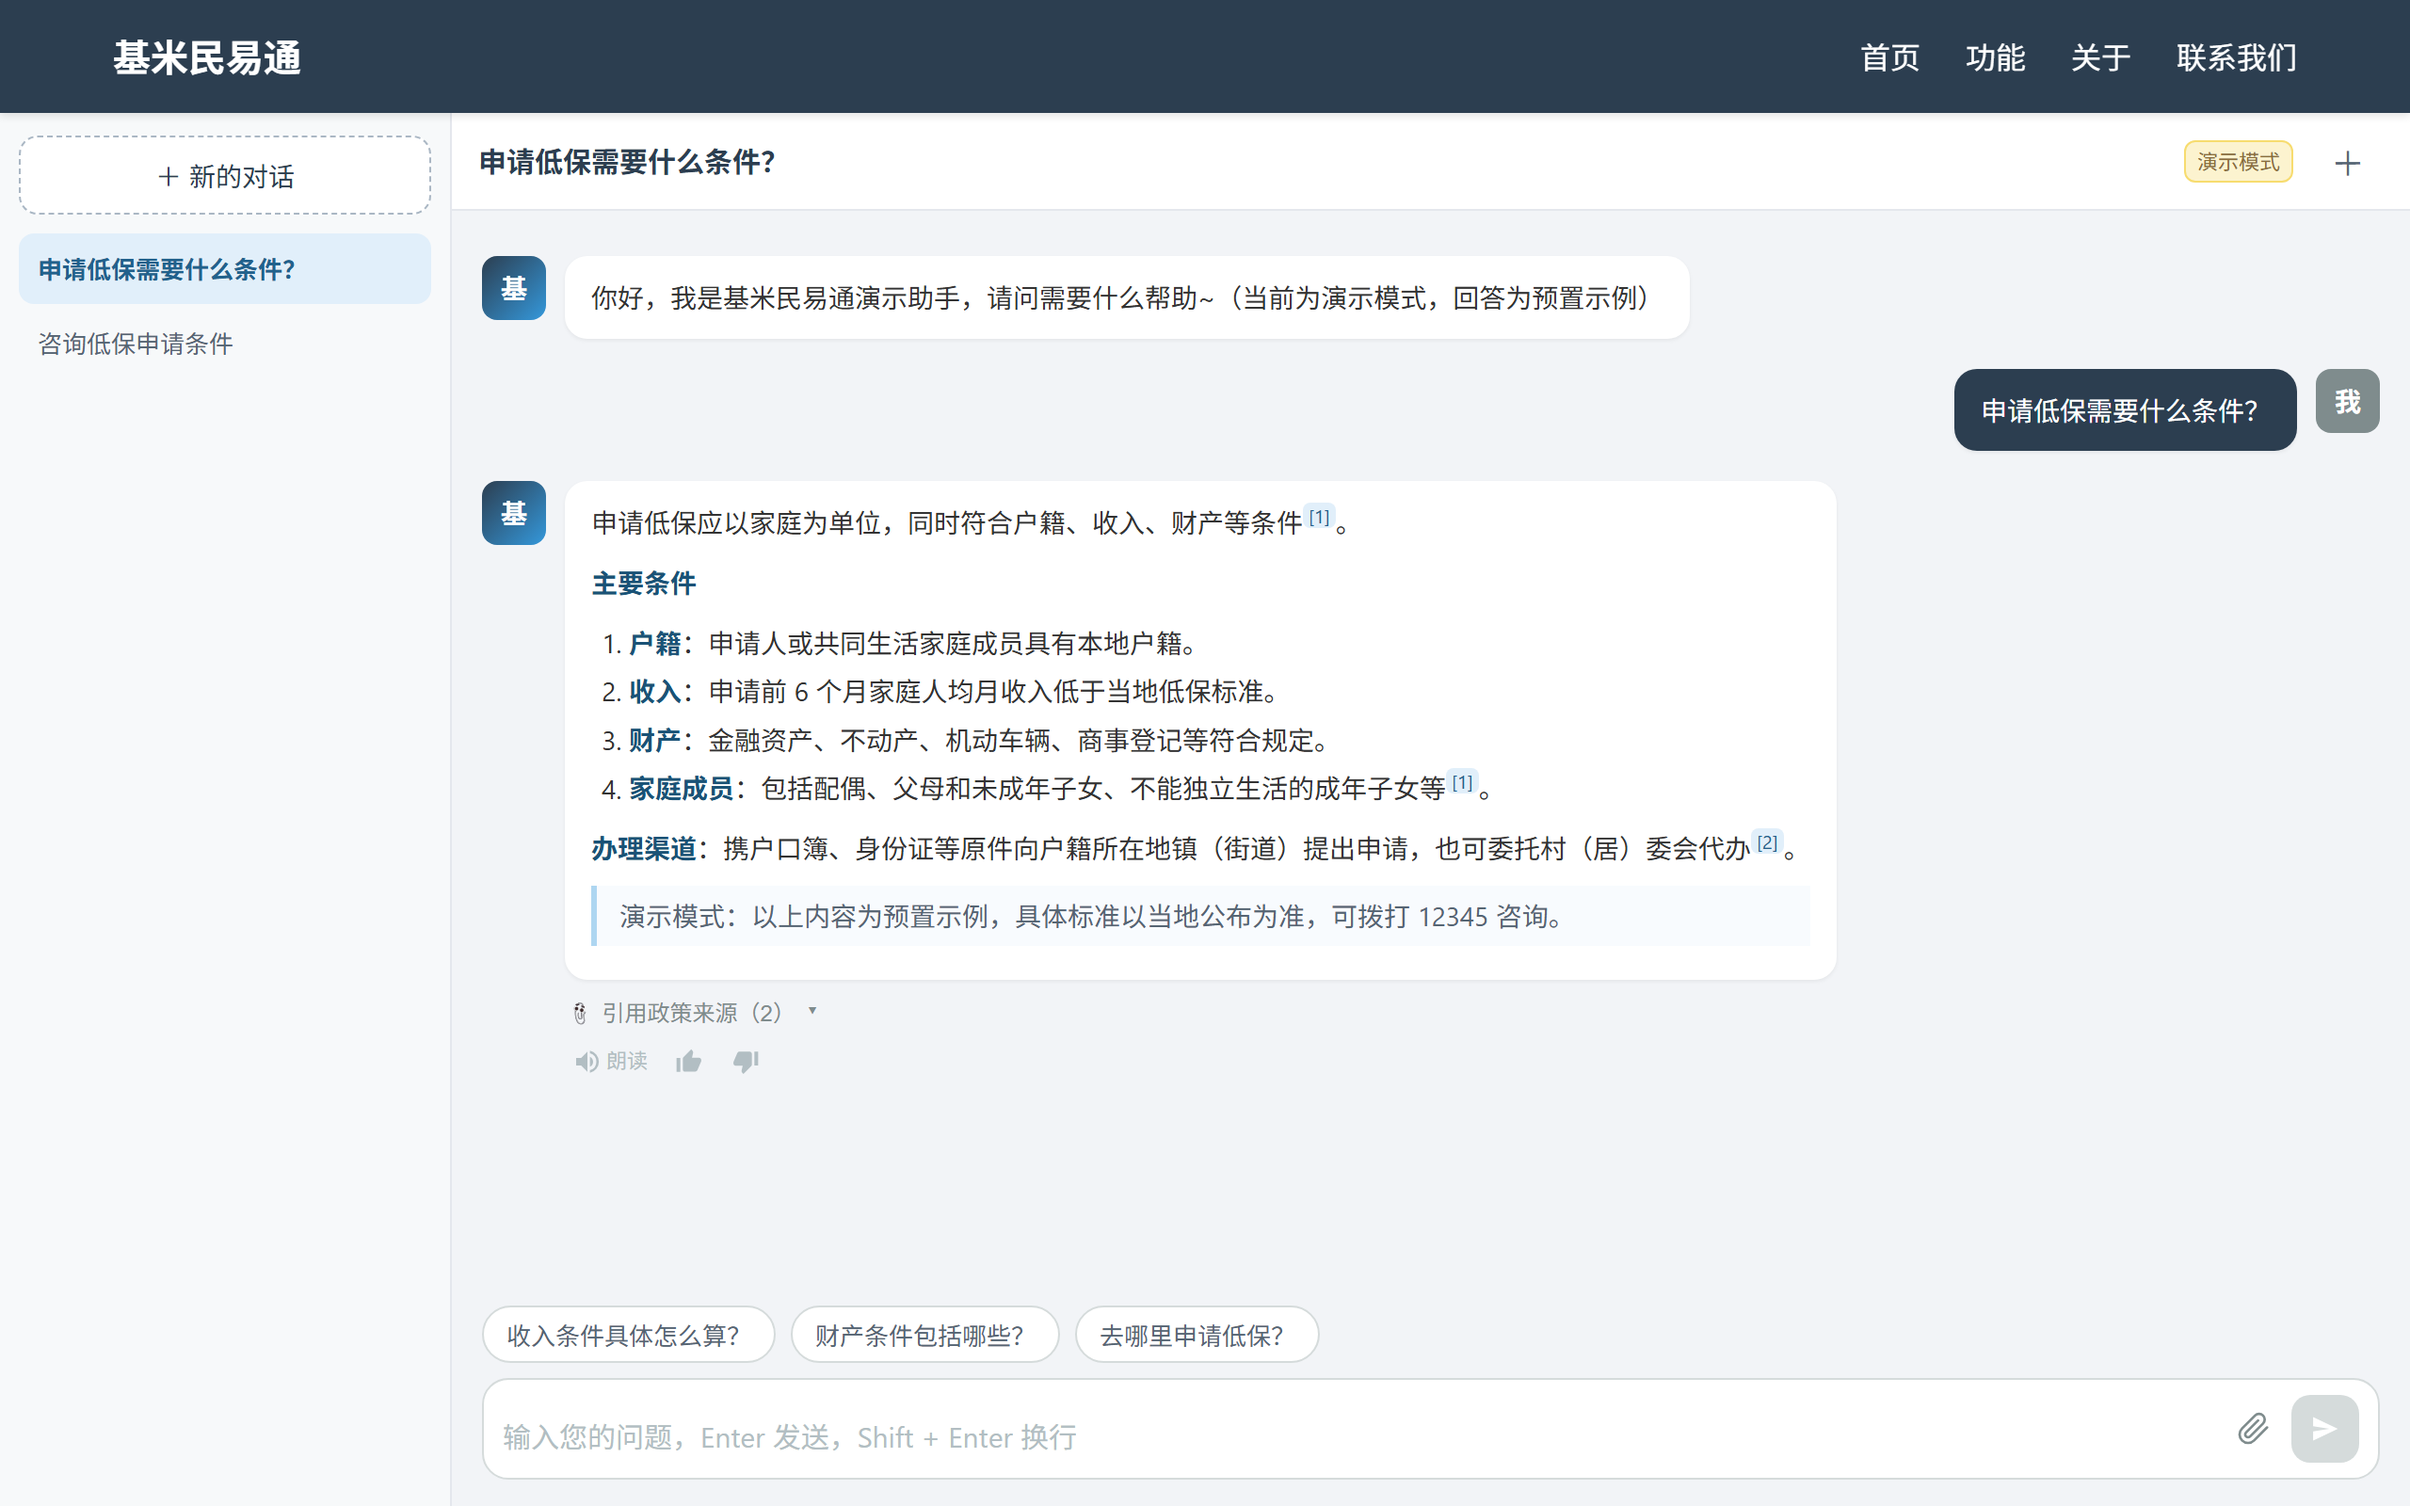
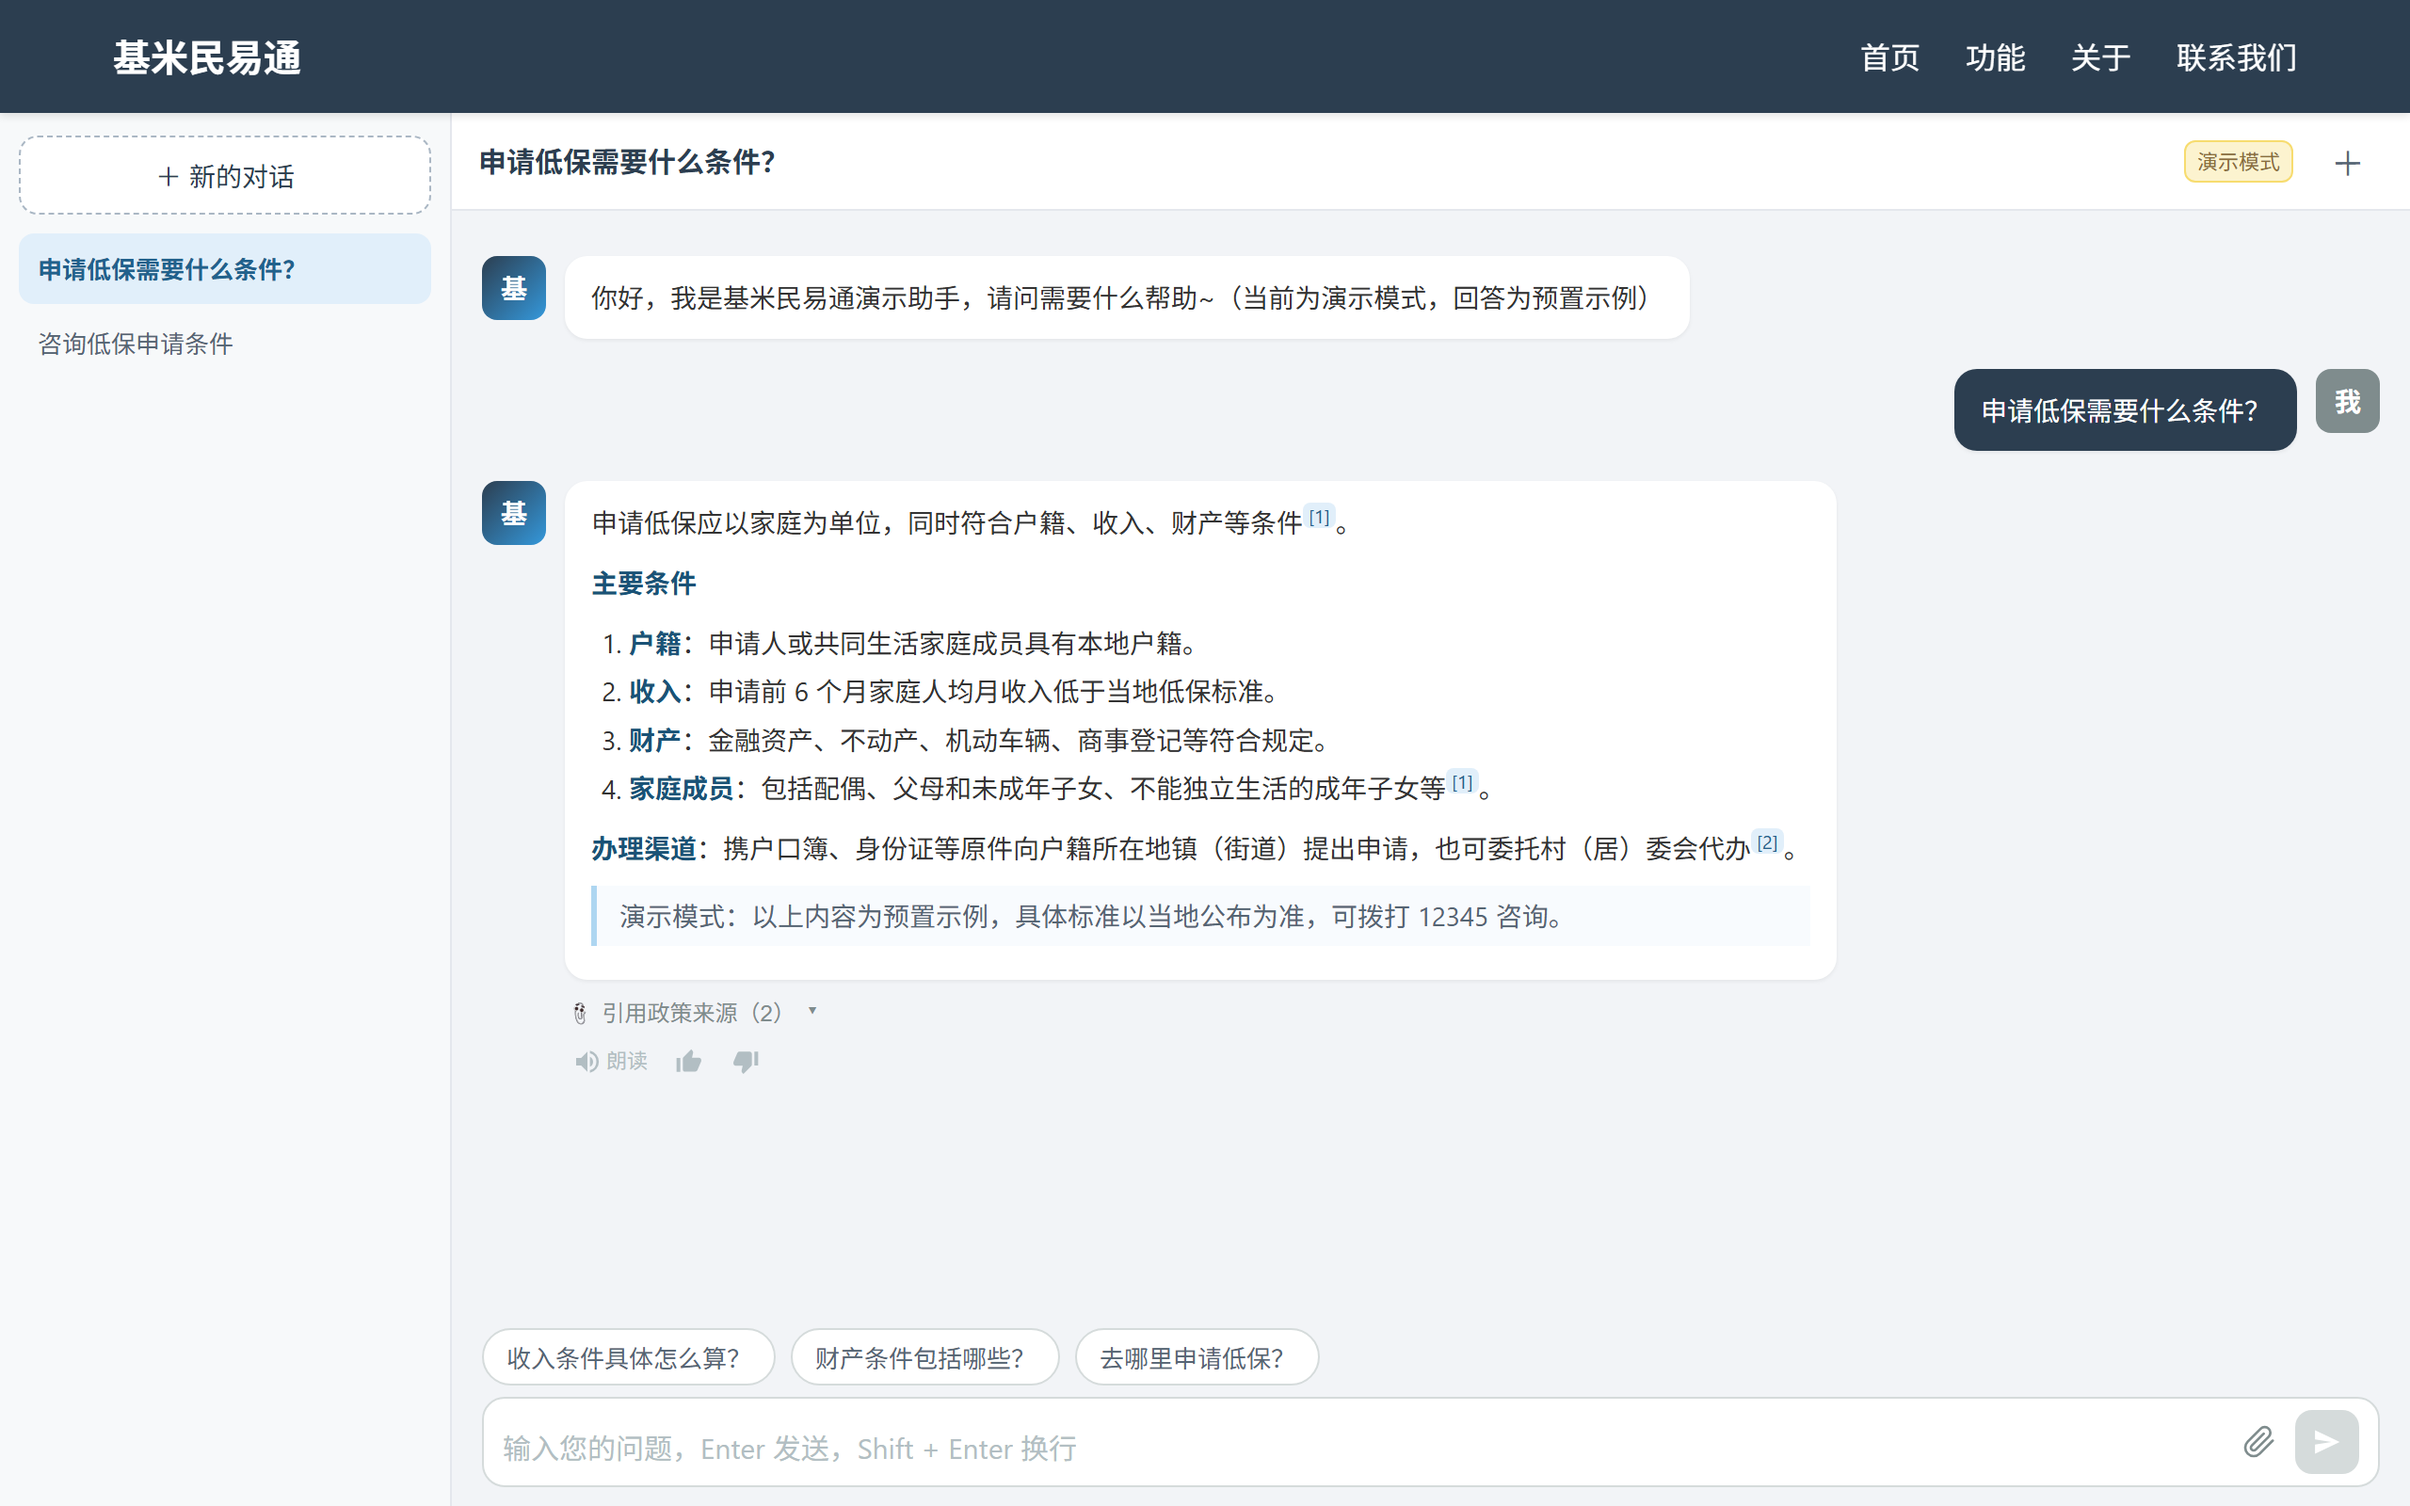
fix(frontend): 服务异常时保留上传入口并收紧输入区
- 缓存应用参数：Dify 短暂不可用时仍显示上传/语音入口，并显示提示与重试
- HTTP 500 提示改为“请确认 Dify 已启动后重试”
- 输入区上下留白收紧，按钮与输入框比例调整
- 重新生成界面截图

Changed region(s): [[0.1875, 0.875, 0.5312, 1.0], [0.9062, 0.9062, 1.0, 1.0]]

diff --git a/frontend/src/stores/chatStore.js b/frontend/src/stores/chatStore.js
@@ -14,6 +14,7 @@ import {
 import { saveTurn } from '@/api/backend'
 
 const USER_KEY = 'jimi_user_id'
+const PARAMS_KEY = 'jimi_app_parameters_v1'
 
 /** 每个浏览器一个稳定用户标识，Dify 以 user 维度隔离会话 */
 function resolveUserId() {
@@ -66,7 +67,8 @@ export const useChatStore = defineStore('chat', {
     messages: [],
     isStreaming: false,
     suggestedQuestions: [], // 最近一条回答后的推荐追问
-    loadingHistory: false
+    loadingHistory: false,
+    initError: '' // 初始化失败提示（服务不可用等）
   }),
 
   getters: {
@@ -78,15 +80,25 @@ export const useChatStore = defineStore('chat', {
     /** 应用启动：拉取应用参数与会话列表，展示开场白 */
     async init() {
       if (!this.configured) return
+      this.initError = ''
       try {
         const [params, convs] = await Promise.all([
           getAppParameters(this.userId),
           getConversations(this.userId)
         ])
         this.parameters = params
+        // 缓存参数，服务短暂不可用时仍能展示上传/语音等入口
+        try { localStorage.setItem(PARAMS_KEY, JSON.stringify(params)) } catch { /* 忽略存储失败 */ }
         this.conversations = convs.data || []
       } catch (e) {
         console.error('[chat] 初始化失败:', e.message)
+        this.initError = String(e.message || '').includes('服务暂时不可用')
+          ? e.message
+          : `无法连接智能体服务：${e.message}`
+        try {
+          const cached = localStorage.getItem(PARAMS_KEY)
+          if (cached) this.parameters = JSON.parse(cached)
+        } catch { /* 忽略缓存解析失败 */ }
       }
       this.startNewConversation()
     },

diff --git a/frontend/src/components/chat/ChatInput.vue b/frontend/src/components/chat/ChatInput.vue
@@ -138,7 +138,7 @@ const { recording, seconds, error: recorderError, start: startRecord, stop: stop
 
 /** 文件上传配置（来自 /parameters 的 file_upload） */
 const uploadConfig = computed(() => store.parameters?.file_upload || {})
-const canUpload = computed(() => uploadConfig.value.enabled === true)
+const canUpload = computed(() => uploadConfig.value.enabled !== false)
 const maxFiles = computed(() => uploadConfig.value.number_limits || 3)
 const sizeLimitMb = computed(() => uploadConfig.value.fileUploadConfig?.file_size_limit || 15)
 const allowedTypes = computed(() => uploadConfig.value.allowed_file_types || ['document'])
@@ -330,14 +330,14 @@ async function send(text) {
 
 <style scoped>
 .chat-input {
-  padding: 10px 16px 14px;
+  padding: 8px 16px 10px;
 }
 
 .suggest-row {
   display: flex;
   flex-wrap: wrap;
   gap: 8px;
-  margin-bottom: 8px;
+  margin-bottom: 6px;
 }
 
 .chip {
@@ -446,11 +446,11 @@ async function send(text) {
 .input-box {
   display: flex;
   align-items: flex-end;
-  gap: 10px;
+  gap: 8px;
   background: #fff;
   border: 1px solid #d5dbdb;
-  border-radius: 14px;
-  padding: 8px 10px;
+  border-radius: 12px;
+  padding: 6px 10px;
   transition: border-color 0.15s, box-shadow 0.15s;
 }
 
@@ -509,8 +509,8 @@ async function send(text) {
 }
 
 .tool-btn {
-  width: 32px;
-  height: 32px;
+  width: 30px;
+  height: 30px;
   border: none;
   border-radius: 8px;
   background: none;
@@ -555,10 +555,10 @@ async function send(text) {
 
 .send-btn {
   flex-shrink: 0;
-  width: 36px;
-  height: 36px;
+  width: 34px;
+  height: 34px;
   border: none;
-  border-radius: 10px;
+  border-radius: 9px;
   background: #2c3e50;
   color: #fff;
   cursor: pointer;

diff --git a/frontend/src/api/dify.js b/frontend/src/api/dify.js
@@ -17,6 +17,14 @@ function headers(extra = {}) {
   }
 }
 
+
+function friendlyError(status, serverMessage) {
+  if (status >= 500) {
+    return `智能体服务暂时不可用（HTTP ${status}），请确认 Dify 已启动后重试`
+  }
+  return serverMessage || `HTTP ${status}`
+}
+
 async function request(path, { method = 'GET', body, signal } = {}) {
   const resp = await fetch(`${API_BASE}${path}`, {
     method,
@@ -30,7 +38,7 @@ async function request(path, { method = 'GET', body, signal } = {}) {
       const err = await resp.json()
       if (err.message) detail = err.message
     } catch { /* 保留状态码信息 */ }
-    throw new Error(detail)
+    throw new Error(friendlyError(resp.status, detail))
   }
   return resp.json()
 }
@@ -83,7 +91,7 @@ export async function streamChatMessage({
       const err = await resp.json()
       if (err.message) detail = err.message
     } catch { /* 保留状态码信息 */ }
-    throw new Error(detail)
+    throw new Error(friendlyError(resp.status, detail))
   }
 
   const reader = resp.body.getReader()
@@ -292,7 +300,7 @@ export function uploadFile(file, user, onProgress) {
           const err = JSON.parse(xhr.responseText)
           if (err.message) detail = err.message
         } catch { /* 保留状态码信息 */ }
-        reject(new Error(detail))
+        reject(new Error(xhr.status >= 500 ? friendlyError(xhr.status, detail) : detail))
       }
     }
     xhr.onerror = () => reject(new Error('网络错误，上传失败'))

diff --git a/frontend/src/components/chat/ChatWindow.vue b/frontend/src/components/chat/ChatWindow.vue
@@ -24,6 +24,11 @@
           <button class="header-btn" type="button" title="新的对话" @click="startNew">＋</button>
         </header>
 
+        <div v-if="store.initError" class="service-banner">
+          <span>⚠ {{ store.initError }}</span>
+          <button type="button" @click="store.init()">重试</button>
+        </div>
+
         <div v-if="sidebarOpen" class="backdrop mobile-only" @click="sidebarOpen = false"></div>
 
         <div ref="listRef" class="message-list" @scroll="onScroll">
@@ -197,6 +202,40 @@ function startNew() {
   border: 1px solid #f7dc6f;
   border-radius: 6px;
   padding: 2px 6px;
+}
+
+.service-banner {
+  flex-shrink: 0;
+  display: flex;
+  align-items: center;
+  gap: 8px;
+  padding: 6px 14px;
+  font-size: 12px;
+  color: #8a6d3b;
+  background: #fcf3cf;
+  border-bottom: 1px solid #f7dc6f;
+}
+
+.service-banner span {
+  flex: 1;
+  overflow: hidden;
+  text-overflow: ellipsis;
+  white-space: nowrap;
+}
+
+.service-banner button {
+  flex-shrink: 0;
+  border: 1px solid #d9b44a;
+  background: #fff;
+  color: #8a6d3b;
+  border-radius: 6px;
+  padding: 2px 10px;
+  font-size: 12px;
+  cursor: pointer;
+}
+
+.service-banner button:hover {
+  background: #fff8dc;
 }
 
 .backdrop {
